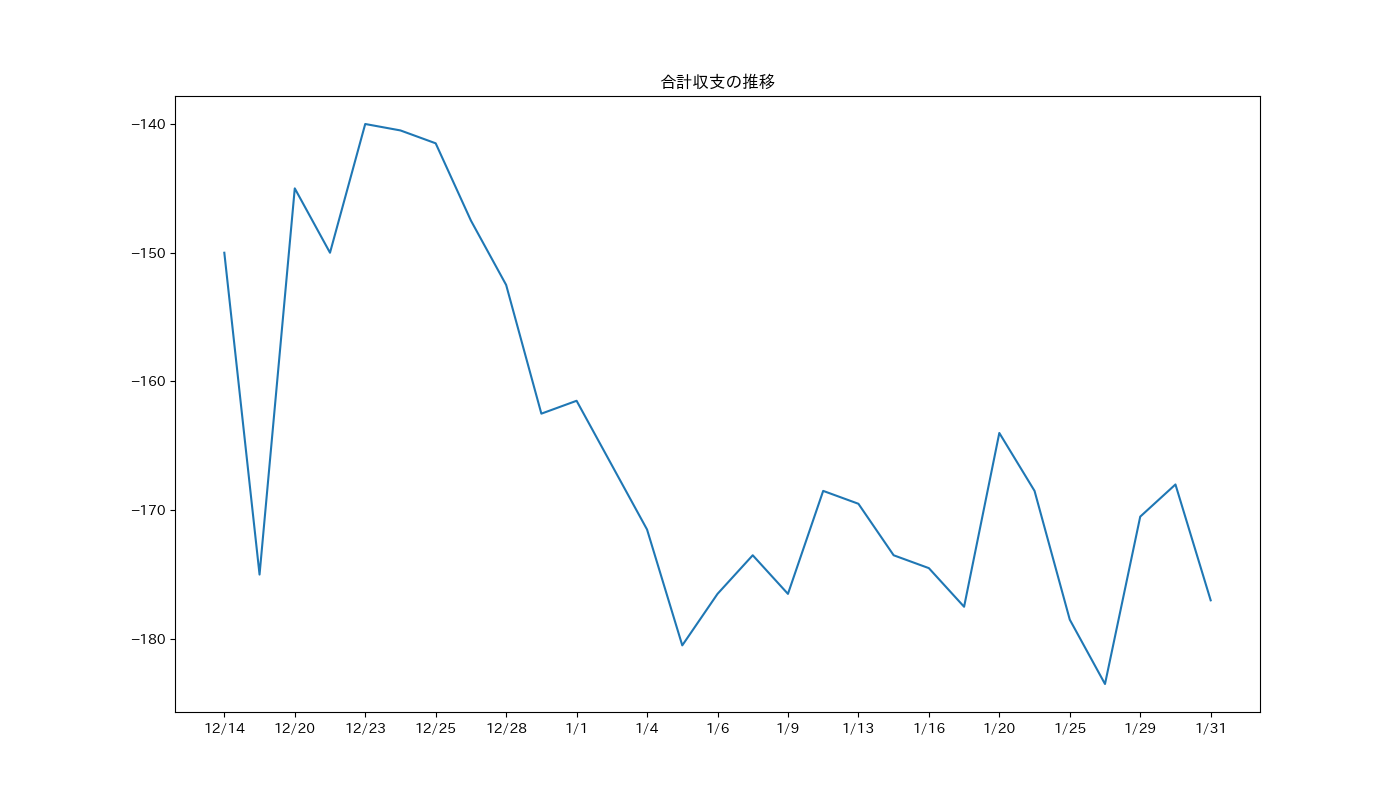
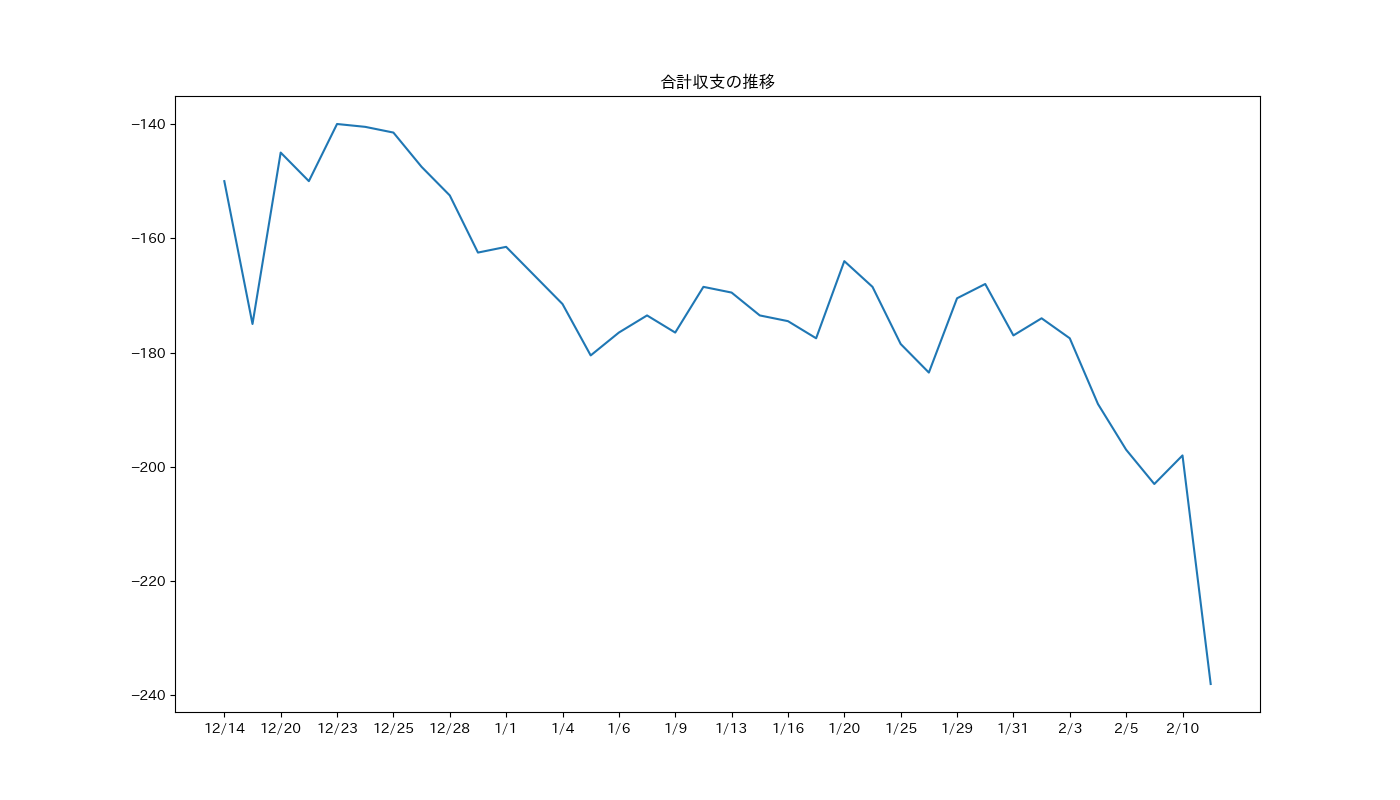
add datas

diff --git a/diary.html b/diary.html
@@ -18,6 +18,63 @@
             </header>
             <div class="contents">
                 <div class="diary">
+                    <div class="2024/2">
+                        <h2>2024/2</h2>
+                        <div class="section">
+                            <h3>2/1</h3>
+                            <p>
+                                朝から25k負けになりました。今までは割とすぐに勝ちに転じて、そこから消化するって感じだったんですが、今日は中ハマり→レギュラーのよくあるパターンでじわじわ削られました。
+                                途中で座った台が良い設定ぽくて逆転勝ちしたので、良かったですが、あれがなかったらメンタルやられてました。笑
+                            </p>
+                        </div>
+                        <div class="section">
+                            <h3>2/3</h3>
+                            <p>
+                                今日は2回に分けて行きました。朝一回行って、19k負けで帰ってきました。悲しくなりながらテスト勉強をしてしばらく立った後、狙ってた台が空いたっぽかったのでまたパチ屋行きました。二回目です。
+                                狙い台に無事座れて、4k投資26.5k回収という結果になりました。一回目と合わせると+1.5kくらいですね。
+                                時間効率が悪いです。。。やはりジャグラーは短期集中でやるべきだなと思いました。
+                                Youtuberのスロコンさんみたいに、ペカらせたら帰るって感じにしようかな。
+                                と思ったら上の文章書いた後にパチ屋近くに用事があったのでもう一度行きました。そこで5k負けたので1日の収支負けです...オワッタ...
+                            </p>
+                        </div> 
+                        <div class="section">
+                            <h3>2/4</h3>
+                            <p>
+                                初め6k投資で普通に負けて、次に10k追加投資しました。最初の方プラマイゼロくらいまで持っていけたのですが、その後負けました。
+                                というか最近パチ屋行き過ぎ。
+                            </p>
+                        </div>
+                        <div class="section">
+                            <h3>2/5</h3>
+                            <p>
+                                友達とテスト終わりに行きました。一緒に行った友達はいつもジャグラーの引きが強くて、ほぼ2k投資以内にペカって更にビッグを引くという強運の持ち主です。
+                                僕は普通に4k負けの状態で一緒にリゼロ強欲へ。僕は2k使った後ジャグラーに戻って、友達はリゼロ続行という形になり、僕はジャグラーで、友達はリゼロで負けを重ねました。。。
+                                良くないとはわかっててもパチ屋行ってしまうね。どうしましょうか。
+                            </p>
+                        </div>
+                        <div class="section">
+                            <h3>2/8</h3>
+                            <p>
+                                後日書いてます。この日のことあんまり覚えてないです。6k負けってことだけ覚えてるので、投資と回収も適当です。
+                                今度からはその日のうちに書くようにします。。。
+                            </p>
+                        </div>
+                        <div class="section">
+                            <h3>2/10</h3>
+                            <p>
+                                最初2k投資2.5k回収で、しっくり来なかったので続行しました。回収額のうちの2kを使って、更に追加投資6kしたときにやっとジャグ連しました。
+                                最終結果は+5k!!久しぶりの勝ちですね～この調子でちょっとずつ確実に増やしたいですね。
+                            </p>
+                        </div>
+                        <div class="section">
+                            <h3>2/11</h3>
+                            <p>
+                                TwitterでFFの人とパチンコ行きました!結果は40k負けです。。。。。。。。。。<br>
+                                一緒に行った人も同じくらい投資したはずなのにほぼ全額回収してました。。。。。。<br>
+                                でもお寿司奢ってもらったし、楽しかったので良しとします!!やっぱり人と行くパチは楽しいですね!!
+                            </p>
+                        </div>
+                    </div>
                     <div class="2024/1">
                         <h2>2024/1</h2>
                         <div class="section">

diff --git a/days.html b/days.html
@@ -18,6 +18,90 @@
             </header>
             <div class="contents">
                 <div class="days">
+                    <!--2024/2-->
+                    <table width="1200" border="3">
+                        <caption>2024年2月の収支</caption>
+                        <thead>
+                            <tr>
+                                <th>日付</th>
+                                <th>機種</th>
+                                <th>投資額/回収額</th>
+                            </tr>
+                        </thead>
+                        <tbody>
+                            <tr>
+                                <td>2/1</td>
+                                <td>ジャグラー</td>
+                                <td>30k/33k</td>
+                            </tr>
+                        </tbody>
+                        <tbody>
+                            <tr>
+                                <td rowspan="3">2/3</td>
+                                <td>リゼロ鬼がかり</td>
+                                <td>1k/0k</td>
+                            </tr>
+                            <tr>
+                                <td>リゼロ強欲</td>
+                                <td>1k/0k</td>
+                            </tr>
+                            <tr>
+                                <td>ジャグラー</td>
+                                <td>28k/26.5k</td>
+                            </tr>
+                        </tbody>
+                        <tbody>
+                            <tr>
+                                <td>2/4</td>
+                                <td>ジャグラー</td>
+                                <td>16k/4.5k</td>
+                            </tr>
+                        </tbody>
+                        <tbody>
+                            <tr>
+                                <td rowspan="2">2/5</td>
+                                <td>リゼロ強欲</td>
+                                <td>2k/0k</td>
+                            </tr>
+                            <tr>
+                                <td>ジャグラー</td>
+                                <td>9k/3k</td>
+                            </tr>
+                        </tbody>
+                        <tbody>
+                            <tr>
+                                <td>2/8</td>
+                                <td>アイムジャグラー</td>
+                                <td>10k/4k</td>
+                            </tr>
+                        </tbody>
+                        <tbody>
+                            <tr>
+                                <td>2/10</td>
+                                <td>ジャグラー</td>
+                                <td>8k/13k</td>
+                            </tr>
+                        </tbody>
+                        <tbody>
+                            <tr>
+                                <td rowspan="4">2/11</td>
+                                <td>エヴァ</td>
+                                <td>22k/0k</td>
+                            </tr>
+                            <tr>
+                                <td>インデックス</td>
+                                <td>1k/0k</td>
+                            </tr>
+                            <tr>
+                                <td>リゼロ強欲</td>
+                                <td>4k/0k</td>
+                            </tr>
+                            <tr>
+                                <td>ジャグラー</td>
+                                <td>13k/0k</td>
+                            </tr>
+                        </tbody>
+                    </table>
                     <!--2024/1-->
                     <table width="1200" border="3">
                         <caption>2024年1月の収支</caption>
@@ -139,12 +223,12 @@
                         <tbody>
                             <tr>
                                 <td rowspan="2">1/20</td>
-                                <td>ジャグラー</td>
-                                <td>1k/18.5k</td>
-                            </tr>
-                            <tr>
                                 <td>リゼロ強欲</td>
                                 <td>4k/0k</td>
+                            </tr>
+                            <tr>
+                                <td>ジャグラー</td>
+                                <td>1k/18.5k</td>
                             </tr>
                         </tbody>
                         <tbody>

diff --git a/sum.html b/sum.html
@@ -19,8 +19,8 @@
             <div class="contents">
                 <div class="sum">
                     <h2>パチンコ・パチスロ総合収支</h2>
-                    <h1>-177.0k!!!</h1>
-                    <h3>(2024/01/31時点)</h3>
+                    <h1>-238.0k!!!</h1>
+                    <h3>(2024/02/11時点)</h3>
                     <img src="source/move_money.png" alt="総合収支の推移">
                 </div>
             </div>
